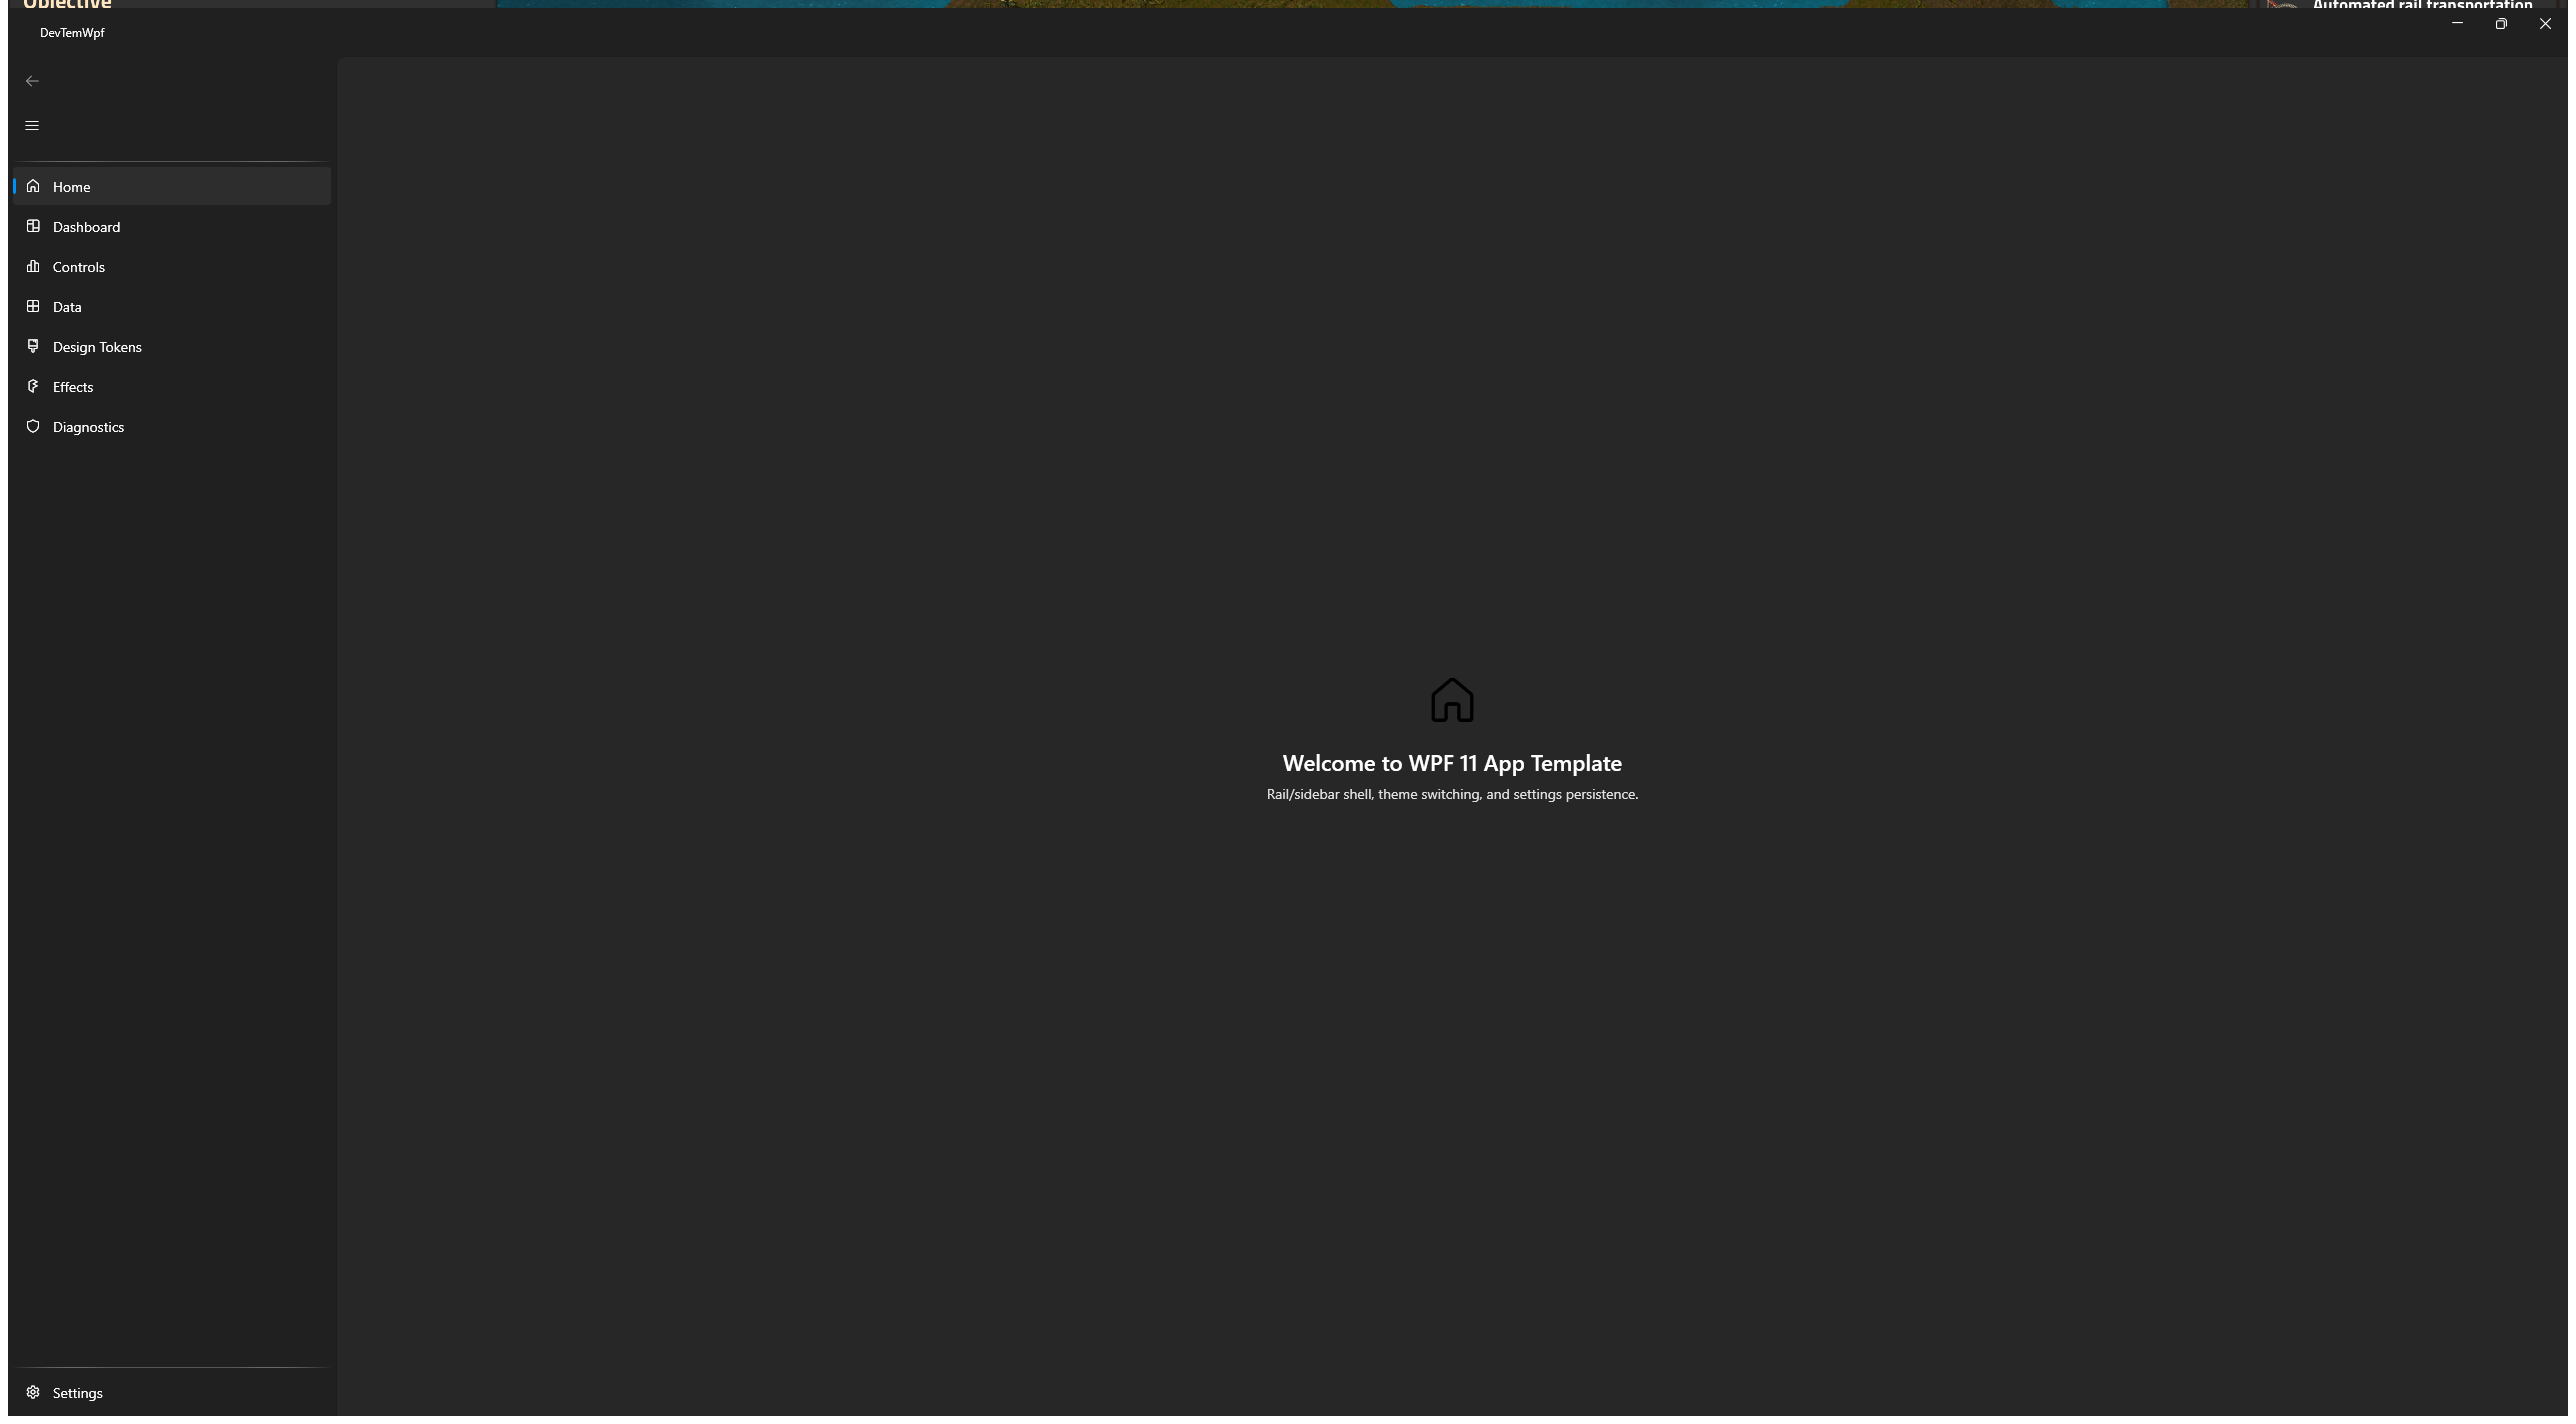
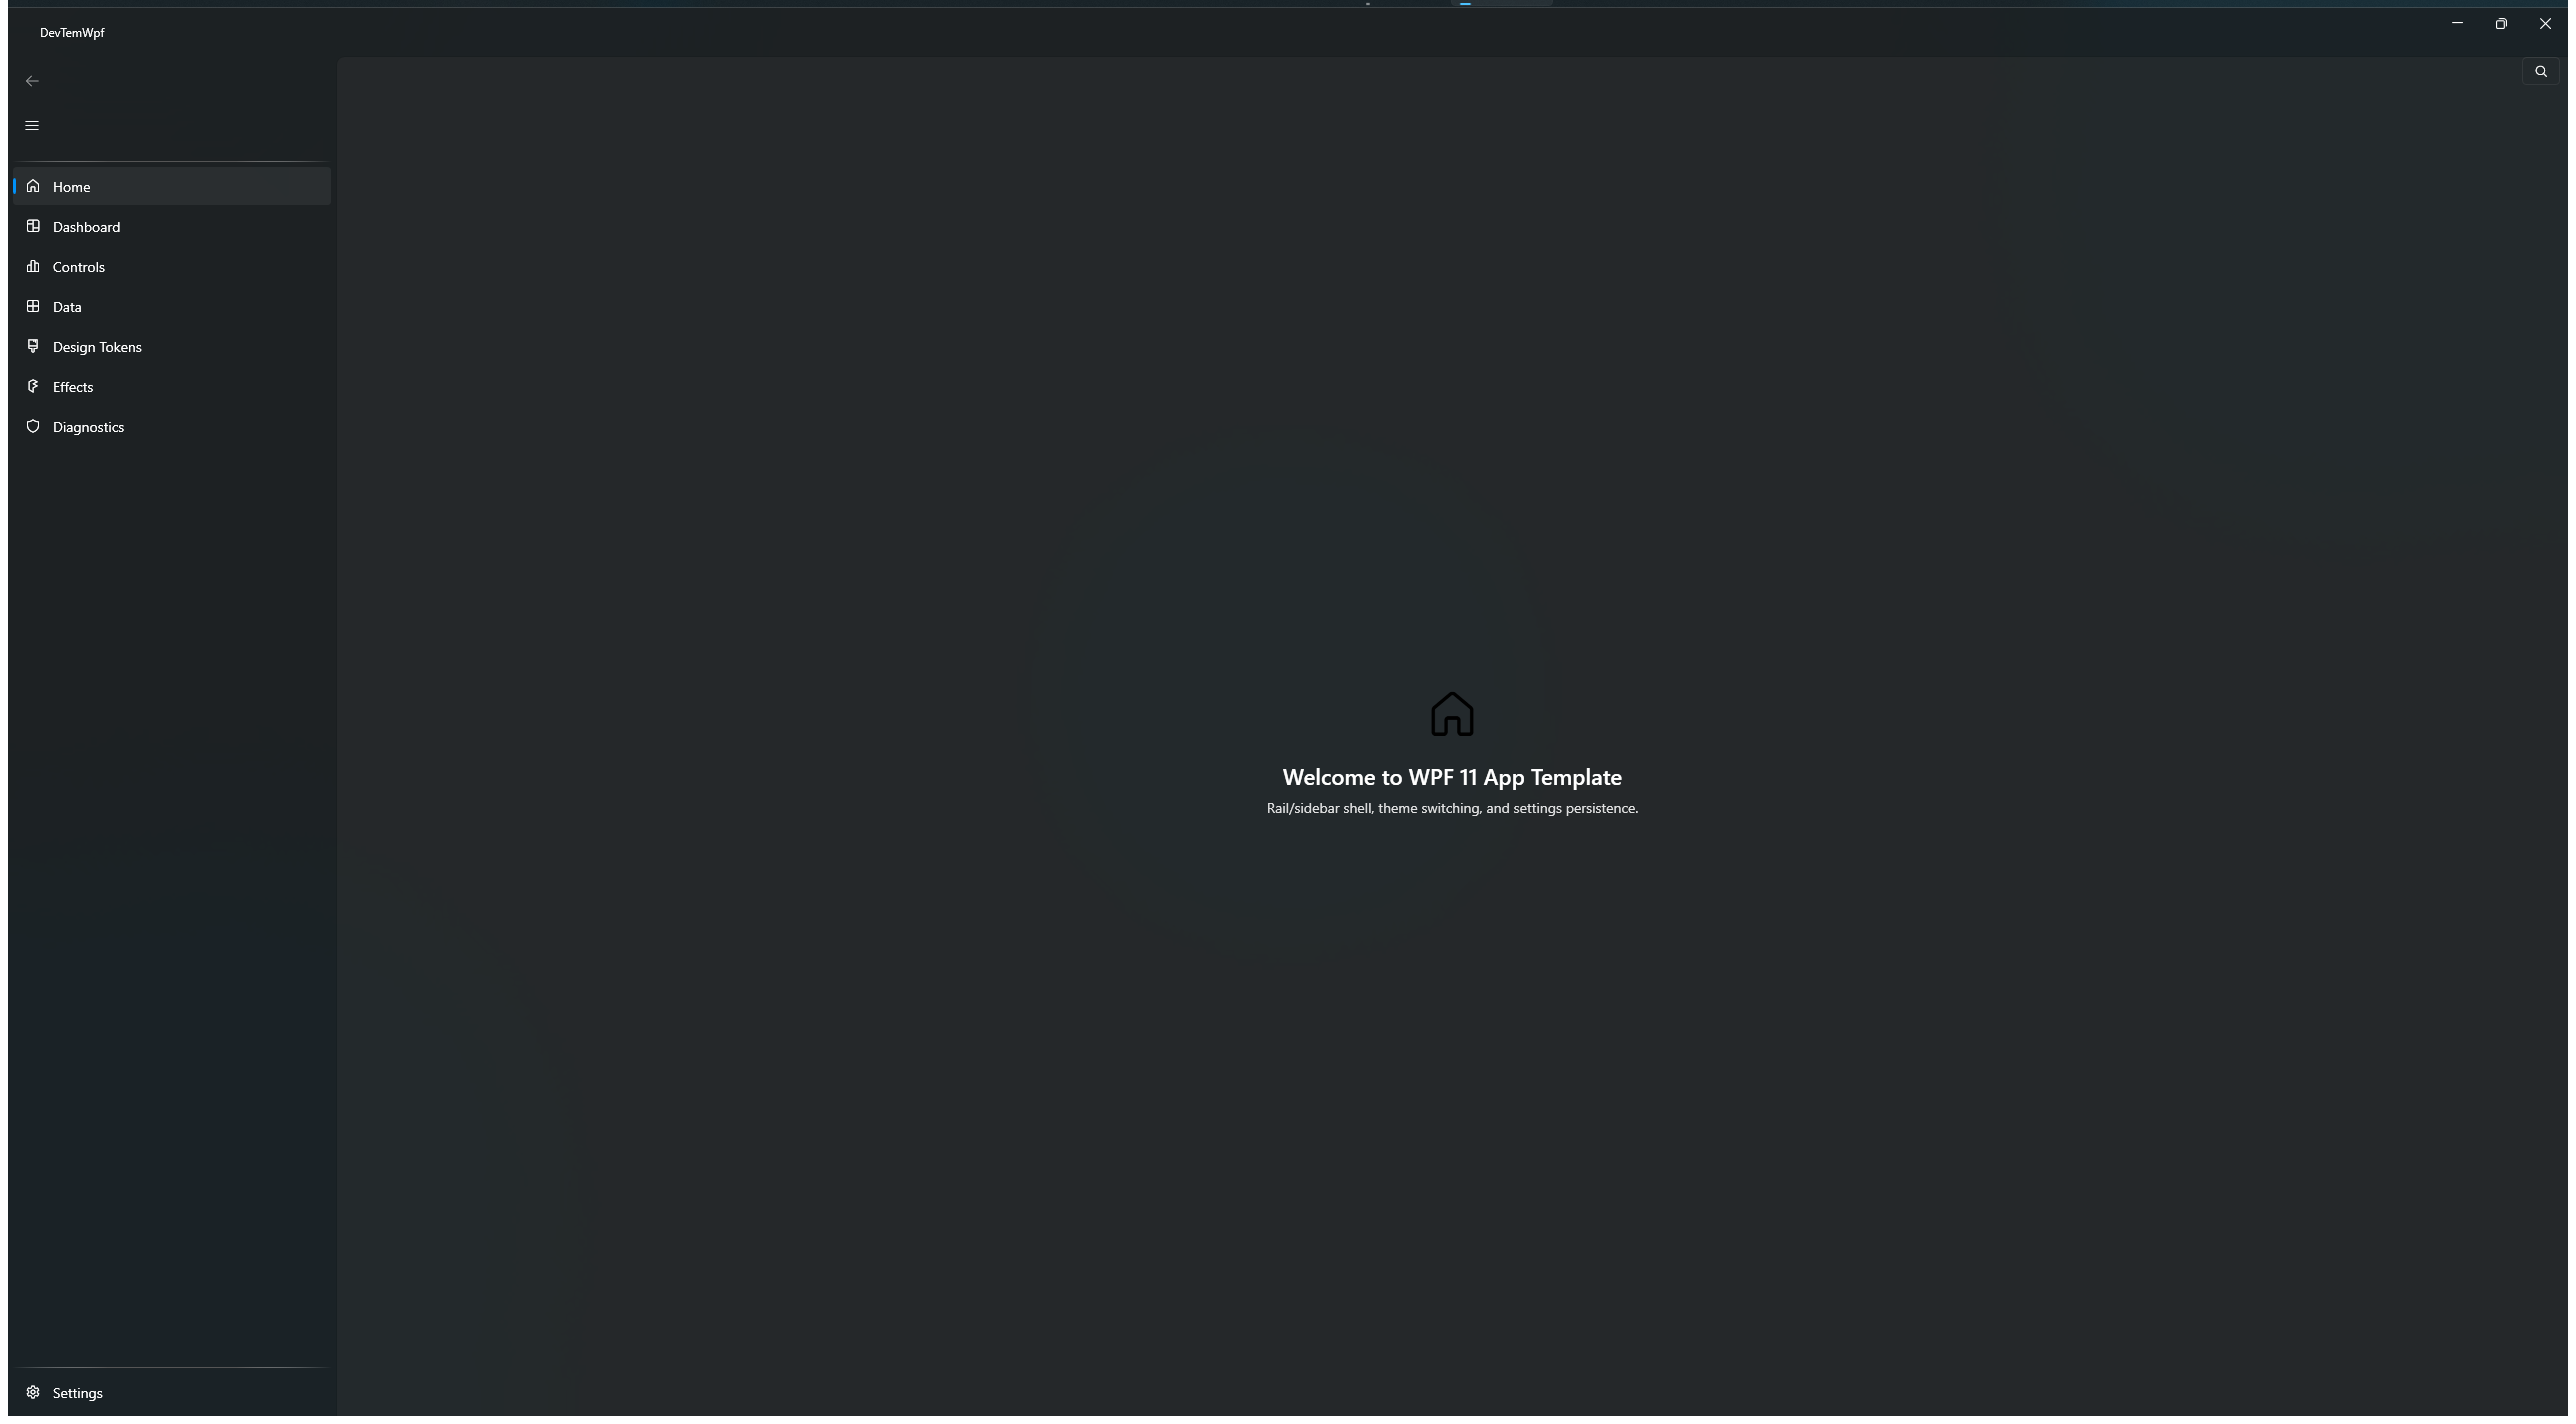
docs(1.5.0): README status/screenshots, DEFERRED D13 no-go, changelog tidy (T10)
Recapture the README screenshots on 1.5.0 (gallery-home + new
gallery-effects), refresh README status/badge/roadmap and the showcase
paragraph, record the HLSL shader no-go in the deferred backlog, and fold the
duplicate changelog bullet.

Changed region(s): [[0.1863, 0.0, 0.9938, 0.0309], [0.4969, 0.4944, 0.6211, 0.5871]]

diff --git a/README.md b/README.md
@@ -4,13 +4,13 @@
 [![Windows 11](https://img.shields.io/badge/Windows-11-0078D4)](https://www.microsoft.com/windows/windows-11)
 [![WPF-UI 4.3.0](https://img.shields.io/badge/WPF--UI-4.3.0-8A2BE2)](https://github.com/lepoco/wpfui)
 [![License: MIT](https://img.shields.io/badge/License-MIT-green)](LICENSE)
-[![Stable 1.4.1](https://img.shields.io/badge/release-1.4.1-green)](https://github.com/Fettah010/wpf-11-app-template/releases)
+[![Stable 1.5.0](https://img.shields.io/badge/release-1.5.0-green)](https://github.com/Fettah010/wpf-11-app-template/releases)
 
 A premium, Windows 11-first **WPF application template** and reusable **UI
 foundation** — Fluent design, MVVM, dependency injection, modular production
 services, and `dotnet new` scaffolding with clean / recommended / full presets.
 
-> **Status:** `1.4.1` — stable. Install the template, generate your app,
+> **Status:** `1.5.0` — stable. Install the template, generate your app,
 > and ship it: `dotnet new install DevTemWPF.Templates` (see
 > [Roadmap](#roadmap--milestones) for what's next).
 >
@@ -49,9 +49,10 @@ powershell -ExecutionPolicy Bypass -File eng/smoke.ps1
 
 ## 🖼 Screenshots
 
-Reference app (`1.4.1`, Comfortable density, Dark theme unless noted) — Home
+Reference app (`1.5.0`, Comfortable density, Dark theme unless noted) — Home
 shell, Controls gallery with section index, Data gallery, Settings in the
-Light theme, and the Top + Tabbed navigation shells:
+Light theme, the Effects & motion showcase, and the Top + Tabbed navigation
+shells:
 
 | Home | Controls gallery |
 |---|---|
@@ -64,6 +65,13 @@ Light theme, and the Top + Tabbed navigation shells:
 | Top navigation shell | Tabbed document workspace |
 |---|---|
 | ![Top navigation](docs/images/shell-top.png) | ![Tabbed workspace](docs/images/shell-tabbed.png) |
+
+Effects & motion showcase (`1.5.0`) — the master + per-effect switches
+(ripple, gradient, and the off-by-default simulated backdrop-distortion
+prototype) and the honest static fallback used under Reduced/Off or a
+low-spec/low-tier adapter:
+
+![Effects and motion showcase](docs/images/gallery-effects.png)
 
 Captured 2026-10-17 on Windows 11 build 26300.9711, 2560×1440 display,
 maximized app window, Dark theme unless noted. Recapture gallery pages with
@@ -92,6 +100,7 @@ also asserts the theme-surface invariants. Keep this provenance line accurate.
 | `1.3.0` | Core control and data completion | ✅ Released |
 | `1.4.0` | Navigation shells & Tabbed document workspace | ✅ Released |
 | `1.4.1` | Tabbed shell themed-surface fix | ✅ Released |
+| `1.5.0` | Advanced motion system & effects prototype | ✅ Released |
 
 Full product plan: [`WPF-11-App-Template-Roadmap-1.0-to-2.0.md`](WPF-11-App-Template-Roadmap-1.0-to-2.0.md) ·
 per-version plans/reports: [`docs/releases/`](docs/releases/) ·
@@ -116,7 +125,8 @@ Dependency inventory & licenses: [`docs/DEPENDENCIES.md`](docs/DEPENDENCIES.md)
 src/DevTemWpf.App/   # reference app (embryo of the clean preset)
 tests/               # unit + integration (xUnit v3, MTP mode)
 docs/                # decisions, guides, per-release plans/reports
-eng/                 # smoke.ps1 gate, measure-startup.ps1 baselines
+eng/                 # smoke/UI/perf gates (smoke, check-ui-tests,
+                     # measure-startup, measure-motion, …)
 ```
 
 Conventions: central package management, pinned SDK (`global.json`),

diff --git a/docs/DEFERRED.md b/docs/DEFERRED.md
@@ -1,4 +1,4 @@
-# Deferred work backlog — 1.0 scope freeze (0.9.0); 1.1.0 additions appended (D21–D24); 1.4.0 dispositions appended (D09r/D14/D15 closed, D25–D27 opened); 1.4.1 D09r note appended
+# Deferred work backlog — 1.0 scope freeze (0.9.0); 1.1.0 additions appended (D21–D24); 1.4.0 dispositions appended (D09r/D14/D15 closed, D25–D27 opened); 1.4.1 D09r note appended; 1.5.0 D13 no-go note appended
 
 Rule: 1.0-rc takes bug fixes + release mechanics only. Everything below is
 post-1.0 unless marked **1.0**.
@@ -13,7 +13,7 @@ post-1.0 unless marked **1.0**.
 | D09r | Visual regression snapshots | **1.2.0 (partial)** — dependency-free spike shipped (`eng/compare-screenshots.ps1` + baselines, advisory-only, 0.03% noise floor proven). Required-gate decision → 1.3.0 with this evidence. |
 | D10 | Low-spec reference machine | Post-1.0 — no hardware; modern-HW budgets ratified. |
 | D12 | `Microsoft.ApplicationInsights` test-only transitive | Watch each audit — still test-only, still harmless. |
-| D13 | HLSL water-warp shader | Post-1.0 — needs toolchain + low-spec proof (D10). |
+| D13 | HLSL water-warp shader | Post-1.0 — needs toolchain + low-spec proof (D10). **1.5.0 — assessed and NO-GO (still deferred).** `ShaderEffect` requires a compiled `.ps` (`fxc.exe`, ≤ `ps_3_0`) and any `Effect` forces an intermediate render target that disables ClearType for its whole subtree; the low-spec gate condition can't be proven without the 8 GB machine (D10/D27). Shipped a simulated, backdrop-only drift prototype instead (off by default, static fallback; ADR-0016). Revisit with the D10 hardware + a `ps_3_0` toolchain decision. |
 | D14 | Drag-and-drop workspace patterns | Post-1.0 — no consumer. |
 | D15 | Top-nav + tabbed shells | Post-1.0 — needs real consumer + template surface. |
 | D16 | Full-gallery localization | **1.3.0** — all gallery display copy in resx (en+de, parity-tested); automation names invariant; sample data + log text stay English by rule. |

diff --git a/CHANGELOG.md b/CHANGELOG.md
@@ -19,7 +19,8 @@ breaking changes, no new packages.
   shutdown; no `CompositionTarget.Rendering` hooks (repo-only guard test).
 - Effects showcase: the Effects page now controls the master switch and each
   effect (ripple, gradient, warp) live, reports the warp fallback reason, and
-  (development builds only) prints the resolved tokens and render tier.
+  (development builds only) prints the resolved tokens and render tier. Each
+  switch is gated through `IMotionService.AllowsEffect`.
 - Accessibility guards: repo-only tests fail if motion adds a
   `CompositionTarget.Rendering` hook or any render-target `Effect`
   (Blur/DropShadow/Shader), keeping ClearType/hit-testing intact; reduced
@@ -27,10 +28,6 @@ breaking changes, no new packages.
 - Backdrop warp prototype: a simulated, backdrop-only radial-highlight drift —
   no HLSL shader, no text or controls inside; off by default with a static
   fallback (ADR-0016 records the shader no-go).
-- Effects: per-effect switches (ripple, gradient, warp) refine the master
-  `EffectsEnabled` switch, all gated through `IMotionService.AllowsEffect`.
-  The backdrop warp prototype is off by default and simulated only — no HLSL
-  shader (ADR-0016).
 
 ## 1.4.1 (2026-10-17)
 
